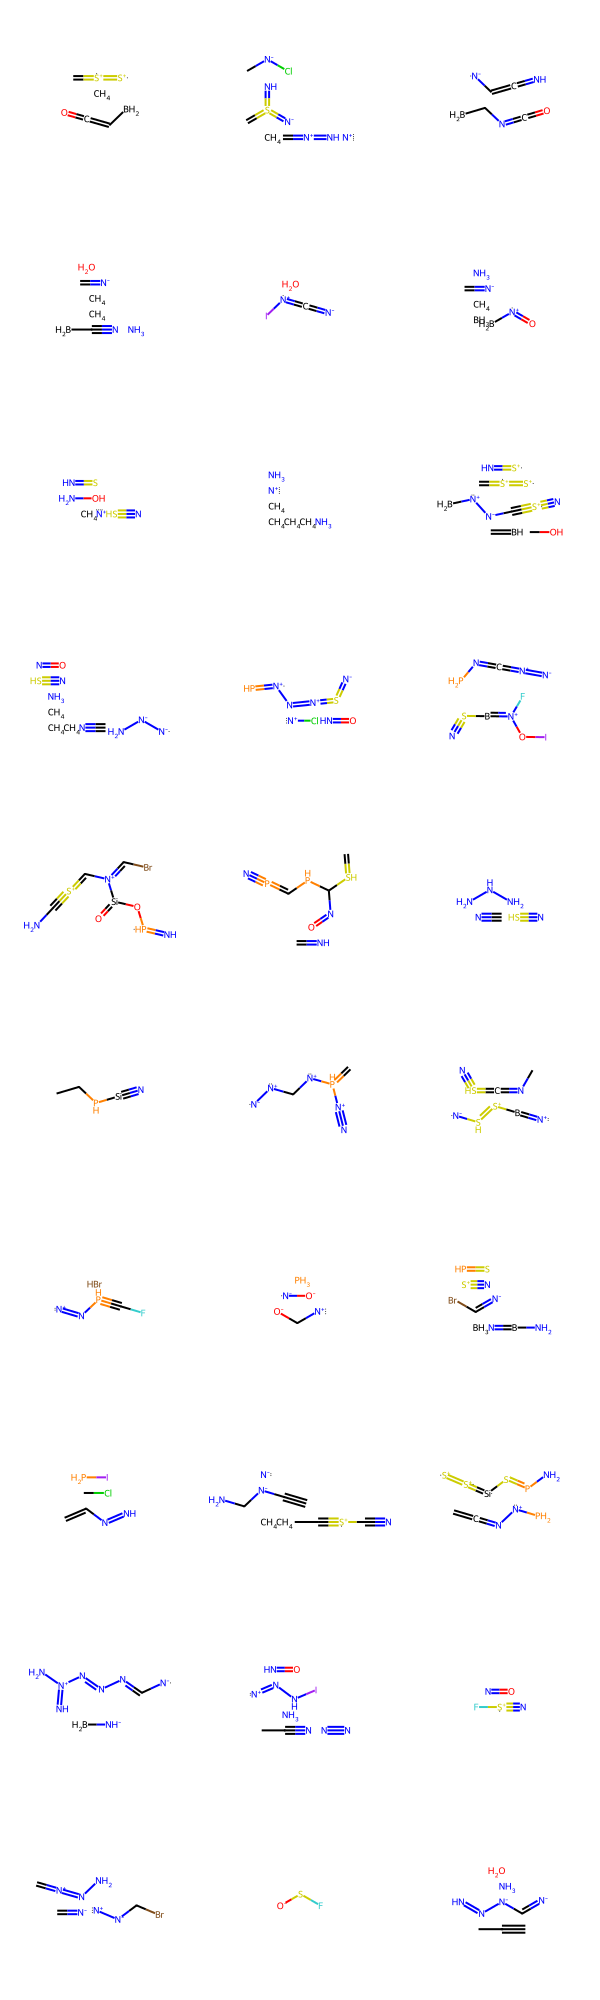
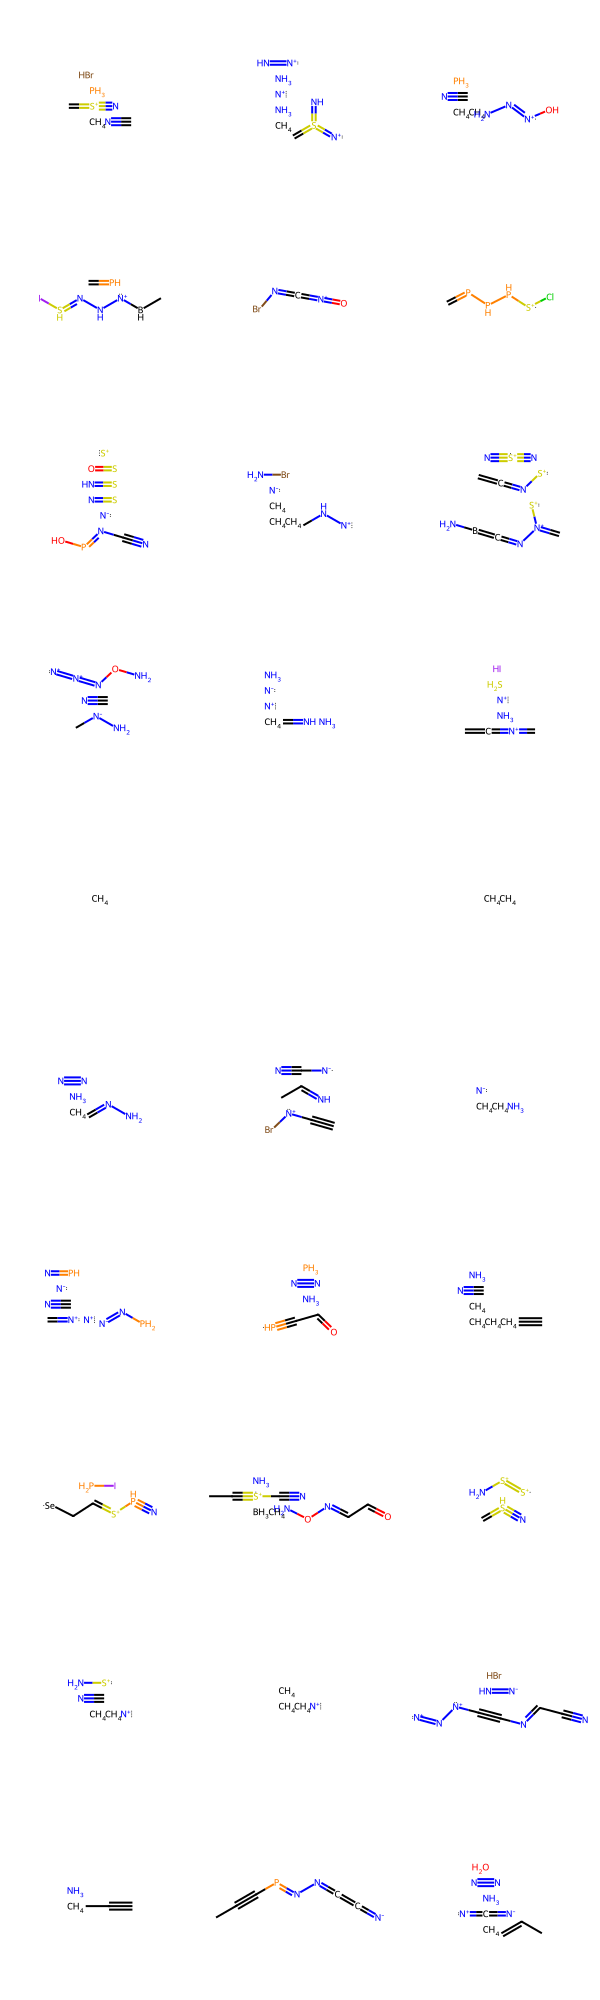
samples_classes correction

diff --git a/DiffGenMol/trainer/trainers.py b/DiffGenMol/trainer/trainers.py
@@ -59,12 +59,12 @@ class Trainer1D():
     def train(self):
         for epoch in range(self.epochs):
             self._train_epoch(epoch)
-            nb_mols = 30
-            samples_classes = torch.tensor([i // (nb_mols//3) for i in range(nb_mols)]).to(self.device)
+            nb_mols = 3 * self.num_classes
+            samples_classes = torch.tensor([i // (nb_mols//self.num_classes) for i in range(nb_mols)]).to(self.device)
             # conditional
             all_continous_mols = torch.squeeze(self.diffusion.sample(samples_classes, cond_scale = 6.))
             recalculate_selfies = utils.mols_continous_to_selfies(all_continous_mols, self.selfies_alphabet, self.largest_selfie_len, self.int_mol, self.dequantized_onehots_min, self.dequantized_onehots_max)
-            mols, valid_selfies_list, valid_count = utils.selfies_to_mols(recalculate_selfies)
+            mols, _, valid_count = utils.selfies_to_mols(recalculate_selfies)
             print('%.2f' % (valid_count / len(recalculate_selfies)*100),  '% of generated samples are valid molecules.')
             print('Match classes : ', utils.generate_mols_match_classes(mols, samples_classes, self.type_property, self.num_classes, self.classes_breakpoints),'% de réussite')
             img = Chem.Draw.MolsToGridImage(mols, molsPerRow=3, subImgSize=(200,200), returnPNG=False)

diff --git a/DiffGenMol/utils/measure.py b/DiffGenMol/utils/measure.py
@@ -55,8 +55,13 @@ def generate_mols_match_classes(mols, classes, prop, num_classes, breakpoints):
   elif prop == "QED":
     prop_values = [Chem.QED.default(mol) for mol in mols]
   true_classes, _ = discretize_continuous_values(prop_values, num_classes, breakpoints)
+  print('Classes:')
+  print(classes)
+  print('True Classes:')
+  print(true_classes)
   nb_diff = 0
   for c1, c2 in zip(classes, true_classes):
     if c1 != c2:
       nb_diff += 1
+  print(nb_diff)
   return (len(classes)-nb_diff)/len(classes)*100
